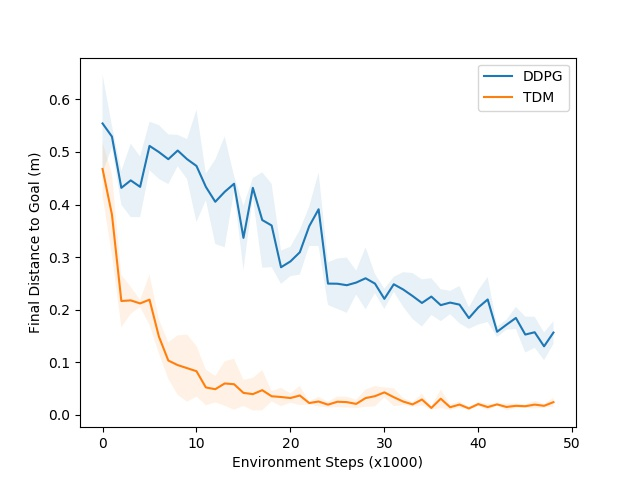
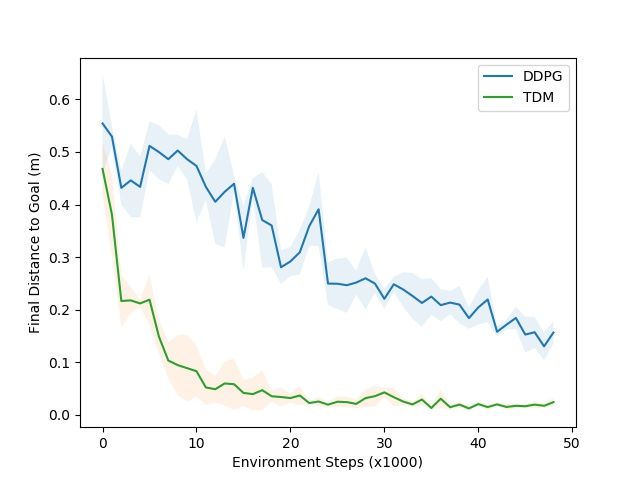
update path to and colors in results

diff --git a/experiments/state_distance/iclr2018/sawyer_results.py b/experiments/state_distance/iclr2018/sawyer_results.py
@@ -7,15 +7,18 @@ import numpy as np
 #             "/ddpg-new"
 # tdm_path = "/home/vitchyr/git/rllab-rail/railrl/data/papers/iclr2018/sawyer" \
 #            "/tdm-new/"
-ddpg_path = "/home/vitchyr/git/rllab-rail/railrl/data/papers/iclr2018/sawyer_new/ddpg/"
-tdm_path = "/home/vitchyr/git/rllab-rail/railrl/data/papers/iclr2018/sawyer_new/tdm/"
+ddpg_path = "/mnt/data-backup-12-02-2017/papers/iclr2018/sawyer_new/ddpg/"
+tdm_path = "/mnt/data-backup-12-02-2017/papers/iclr2018/sawyer_new/tdm/"
 
 ddpg_csvs = get_all_csv(ddpg_path)
 # naf_csvs = get_all_csv(naf_path)
 tdm_csvs = get_all_csv(tdm_path)
 
+
 MAX_ITERS = 100
 plt.figure()
+prop_cycle = plt.rcParams['axes.prop_cycle']
+colors = prop_cycle.by_key()['color']
 for trials, name, key in [
     (ddpg_csvs, 'DDPG',
      'Test_Final_Distance_from_Desired_End_Effector_Position_Mean'),
@@ -42,7 +45,10 @@ for trials, name, key in [
     std = np.std(costs, axis=0)
     epochs = np.arange(0, len(costs[0]))
     plt.fill_between(epochs, mean - std, mean + std, alpha=0.1)
-    plt.plot(epochs, mean, label=name)
+    if name == 'TDM':
+        plt.plot(epochs, mean, label=name, color=colors[2])
+    else:
+        plt.plot(epochs, mean, label=name, color=colors[0])
     # plt.plot(epochs, costs[0, :], label=name)
     # plt.plot(epochs, costs[1, :], label=name)
     # plt.plot(epochs, costs[2, :], label=name)
